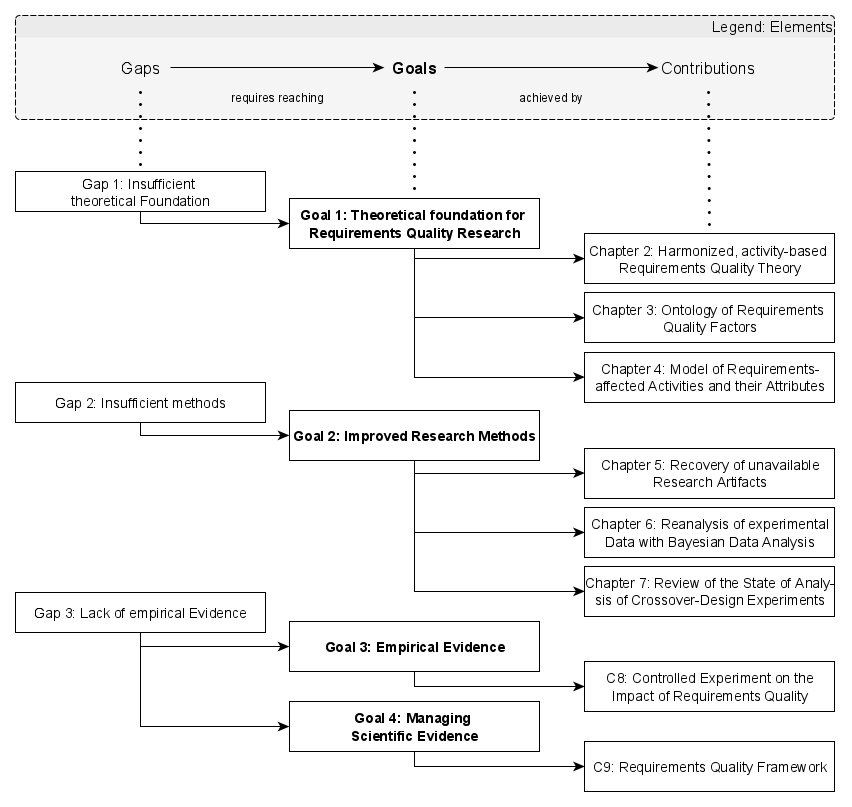
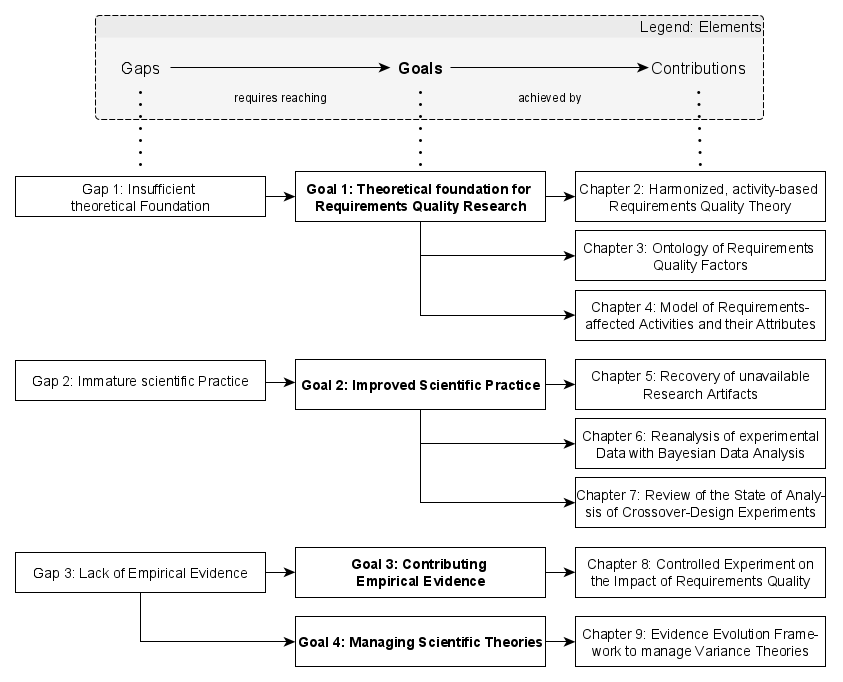
Updated final chapter of the thesis

diff --git a/thesis.html b/thesis.html
@@ -86,7 +86,7 @@ title: Ph.D. Thesis
 </div>
 
 <div class="publication">
-    <h3 class="pub-title">Chapter 9: Managing Variance Theories in Software Engineering</h3>
-    <p class="pub-authors">Julian Frattini, Daniel Mendez, Jannik Fischbach, Davide Fucci, Michael Unterkalmsteiner</p>
-    <p class="pub-info">To be submitted to Transactions on Software Engineering. The manuscript will be made available here soon.</p>
+    <h3 class="pub-title">Chapter 9: Replications, Revisions, and Reanalyses: Managing Variance Theories in Software Engineering</h3>
+    <p class="pub-authors">Julian Frattini, Jannik Fischbach, Davide Fucci, Michael Unterkalmsteiner, Daniel Mendez</p>
+    <p class="pub-info">Submitted to Transactions on Software Engineering. Pre-print available at <a href="https://arxiv.org/abs/2412.12634" target="_blank">arXiv:2412.12634</a>.</p>
 </div>
